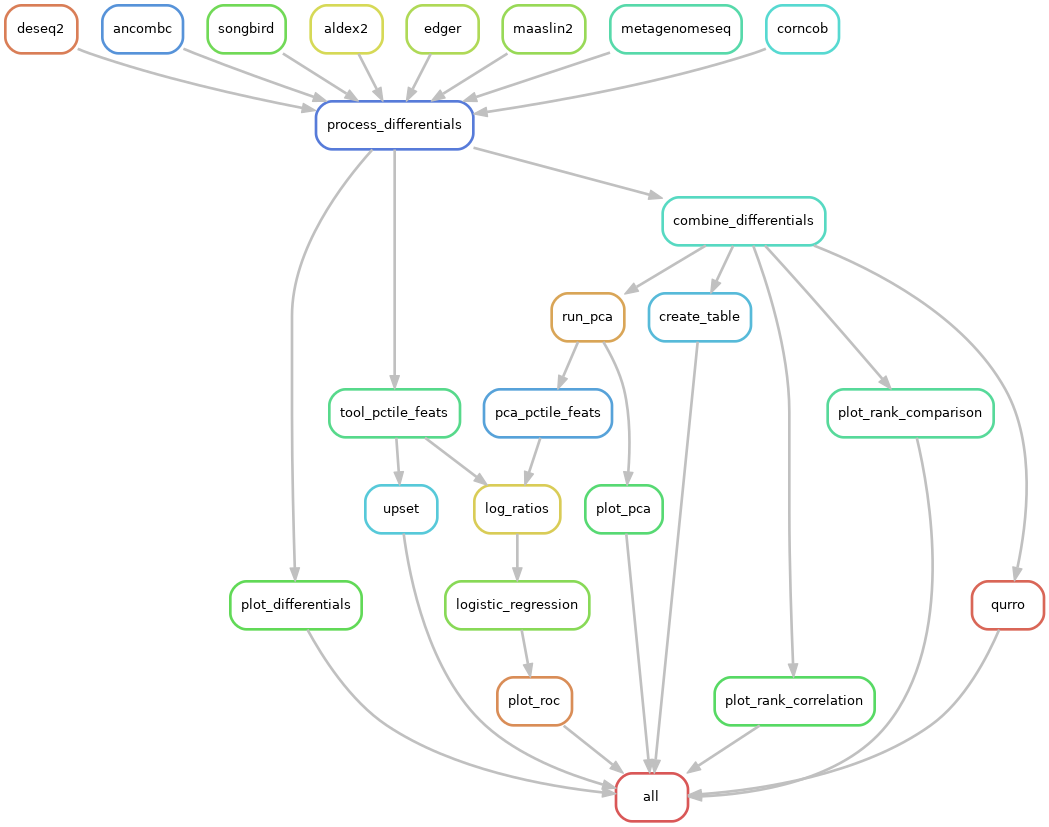
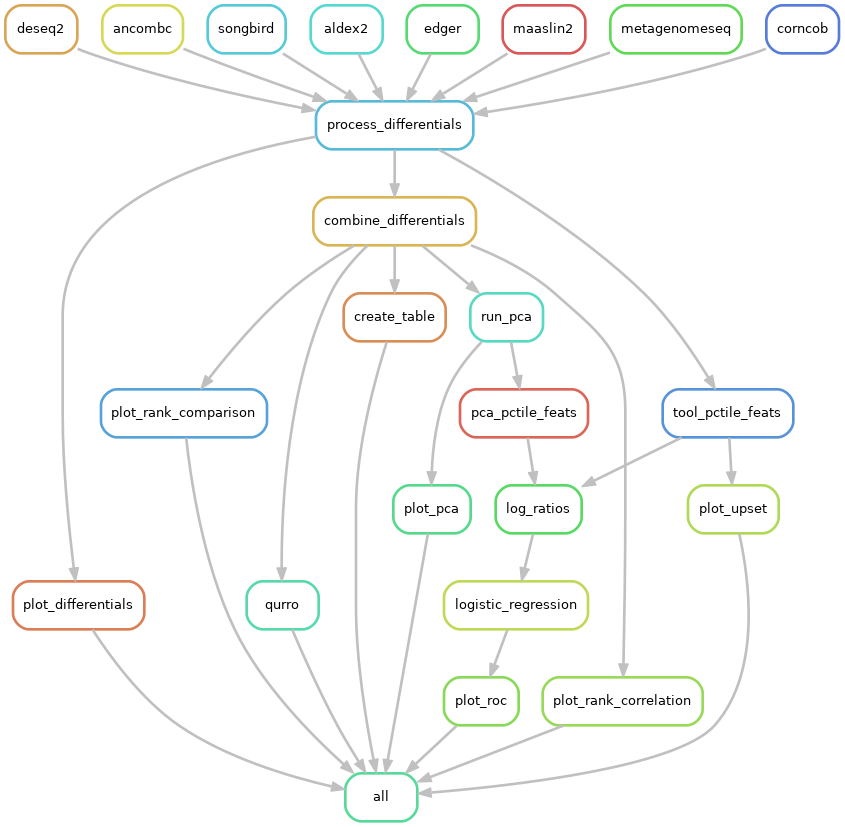
Update rules (#16)
* update plot pca and roc

* update plot scripts

* fix typo + add logs

* update common

* new report files

* Update report

* update rule graph

* update readme

diff --git a/workflow/scripts/plot_pca.py b/workflow/scripts/plot_pca.py
@@ -1,11 +1,10 @@
 import logging
 
+import matplotlib.pyplot as plt
+from matplotlib.patches import Patch
 import numpy as np
 import pandas as pd
 import seaborn as sns
-
-from bokeh.plotting import figure, output_file, save
-from bokeh.models import ColumnDataSource, Arrow, VeeHead, HoverTool
 
 
 logger = logging.getLogger("qadabra")
@@ -17,8 +16,12 @@ formatter = logging.Formatter(
 fh.setFormatter(formatter)
 logger.addHandler(fh)
 
-output_file(filename=snakemake.output[0], title="PCA")
+logging.captureWarnings(True)
+logging.getLogger("py.warnings").addHandler(fh)
 
+plt.style.use(snakemake.config["stylesheet"])
+
+logger.info("Loading PCA results...")
 feat_df = pd.read_table(snakemake.input["features"], sep="\t", index_col=0)
 tool_df = pd.read_table(snakemake.input["tools"], sep="\t", index_col=0)
 prop_exp = pd.read_table(snakemake.input["prop_exp"], sep="\t", index_col=0)
@@ -27,82 +30,80 @@ prop_exp = prop_exp.squeeze()
 pc_cols = tool_df.columns.tolist()
 tool_list = tool_df.index.tolist()
 
-feat_df = feat_df.reset_index()
-tool_df = tool_df.reset_index()
-
-min_max_vals = pd.concat(
-    [tool_df[pc_cols], feat_df[pc_cols]]
-).agg(["min", "max"])
-
-x_min, x_max = min_max_vals["PC1"]
-y_min, y_max = min_max_vals["PC2"]
-x_range = x_max - x_min
-y_range = y_max - y_min
-
-offset = 0.05
-x_min = x_min - offset*x_range
-x_max = x_max + offset*x_range
-
-y_min = y_min - offset*y_range
-y_max = y_max + offset*y_range
-
 arrow_palette = dict(zip(
     tool_list,
-    sns.color_palette("Dark2", len(tool_list)).as_hex()
+    sns.color_palette("colorblind", len(tool_list)).as_hex()
 ))
 
-source = ColumnDataSource(feat_df)
+fig, ax = plt.subplots(1, 1)
 
-hover_points = HoverTool(mode="mouse", names=["points"], attachment="below")
-hover_points.tooltips = [(f"{x}", f"@{x}") for x in feat_df.columns]
-
-tools = [
-    "box_zoom",
-    "reset",
-    "pan",
-    "save"
-]
-
-plot = figure(tools=tools + [hover_points],
-              x_range=(x_min, x_max), y_range=(y_min, y_max))
-plot.circle(
-    source=source,
+logger.info("Plotting scatterplot...")
+sns.scatterplot(
+    data=feat_df,
     x="PC1",
     y="PC2",
-    color="lightgreen",
-    line_width=0.5,
-    line_color="black",
-    size=10,
-    name="points"
+    color="lightgray",
+    edgecolor="black",
+    linewidth=0.1,
+    ax=ax
 )
 
+xlim = ax.get_xlim()
+ylim = ax.get_ylim()
+
+xrange = xlim[1] - xlim[0]
+yrange = ylim[1] - ylim[0]
+
+logger.info("Plotting arrows...")
 for i, row in tool_df.iterrows():
-    tool_name = row["tool"]
+    tool_name = row.name
     color = arrow_palette[tool_name]
-    plot.line(x=[0, row["PC1"]], y=[0, row["PC2"]], line_width=3, line_color=color,
-              legend_label=tool_name)
-    # plot arrow on top since we can't add arrows to legend
-    arr = Arrow(
-        end=VeeHead(line_width=3, line_color=color, fill_color=color),
-        x_start=0, y_start=0, x_end=row["PC1"], y_end=row["PC2"],
-        line_color=color, line_width=4,
-        name="arrows"
+    ax.arrow(
+        x=0, y=0,
+        dx=row["PC1"], dy=row["PC2"],
+        facecolor=color,
+        linewidth=0.5,
+        head_width=xrange*0.005*5,
+        width=xrange*0.005,
+        edgecolor="black",
     )
-    plot.add_layout(arr)
+
+
+patches = []
+for i, row in tool_df.iterrows():
+    tool_name = row.name
+    color = arrow_palette[tool_name]
+    ax.arrow(
+        x=0, y=0,
+        dx=row["PC1"], dy=row["PC2"],
+        facecolor=color,
+        linewidth=0.5,
+        head_width=xrange*0.005*5,
+        width=xrange*0.005,
+        edgecolor="black",
+    )
+    tool_patch = Patch(
+        facecolor=color,
+        edgecolor="black",
+        label=tool_name,
+        linewidth=0.5,
+    )
+    patches.append(tool_patch)
+
+ax.legend(
+    handles=patches,
+    bbox_to_anchor=[1, 1],
+    loc="upper left",
+    frameon=False
+)
 
 prop_exp_labels = [
     f"{i} ({x*100:.2f}%)"
     for i, x in prop_exp.iteritems()
 ]
-plot.xaxis.axis_label = prop_exp_labels[0]
-plot.yaxis.axis_label = prop_exp_labels[1]
-plot.xaxis.major_label_text_font_size = "10pt"
-plot.yaxis.major_label_text_font_size = "10pt"
+ax.set_xlabel(prop_exp_labels[0])
+ax.set_ylabel(prop_exp_labels[1])
 
-for ax in [plot.xaxis, plot.yaxis]:
-    ax.axis_label_text_font_size = "14pt"
-    ax.axis_label_text_font_style = "normal"
-    ax.major_label_text_font_size = "10pt"
-
-save(plot)
-logger.info(f"Saved PCA to {snakemake.output[0]}")
+ax.set_title("PCA")
+plt.savefig(snakemake.output[0])
+logger.info(f"Saved to {snakemake.output[0]}")

diff --git a/workflow/scripts/plot_rank_correlations.py b/workflow/scripts/plot_rank_correlations.py
@@ -1,6 +1,7 @@
 import logging
 
 import matplotlib.pyplot as plt
+import numpy as np
 import pandas as pd
 import seaborn as sns
 
@@ -14,15 +15,24 @@ formatter = logging.Formatter(
 fh.setFormatter(formatter)
 logger.addHandler(fh)
 
-plt.style.use(snakemake.params[0])
+logging.captureWarnings(True)
+logging.getLogger("py.warnings").addHandler(fh)
+
+plt.style.use(snakemake.config["stylesheet"])
 
 logger.info("Loading differentials...")
 diffs_df = pd.read_table(snakemake.input[0], sep="\t", index_col=0)
 
+corr = diffs_df.corr("spearman")
+mask = np.zeros_like(corr)
+mask[np.triu_indices_from(mask)] = True
+
 fig, ax = plt.subplots(1, 1)
 sns.heatmap(
-    diffs_df.corr("spearman"),
+    corr,
     annot=True,
+    mask=mask,
+    square=True,
     ax=ax
 )
 ax.set_title("Spearman Rank Correlations")

diff --git a/workflow/scripts/plot_rank_comparison.py b/workflow/scripts/plot_rank_comparison.py
@@ -19,6 +19,9 @@ formatter = logging.Formatter(
 fh.setFormatter(formatter)
 logger.addHandler(fh)
 
+logging.captureWarnings(True)
+logging.getLogger("py.warnings").addHandler(fh)
+
 output_file(filename=snakemake.output[0], title="Rank Comparison")
 
 diff_df = pd.read_table(snakemake.input[0], sep="\t", index_col=0)
@@ -103,4 +106,4 @@ for ax in [plot.xaxis, plot.yaxis]:
 
 layout = row(column(chosen_tool_1, chosen_tool_2), plot)
 save(layout)
-logger.info(f"Saved rankd comparisons to {snakemake.output[0]}")
+logger.info(f"Saved rank comparisons to {snakemake.output[0]}")

diff --git a/workflow/scripts/plot_roc.py b/workflow/scripts/plot_roc.py
@@ -17,7 +17,11 @@ formatter = logging.Formatter(
 fh.setFormatter(formatter)
 logger.addHandler(fh)
 
-plt.style.use(snakemake.params[0])
+logging.captureWarnings(True)
+logging.getLogger("py.warnings").addHandler(fh)
+
+plt.style.use(snakemake.config["stylesheet"])
+
 tools = snakemake.config["tools"] + ["pca_pc1"]
 palette = dict(zip(
     tools, sns.color_palette("colorblind", len(tools))

diff --git a/workflow/scripts/plot_differentials.py b/workflow/scripts/plot_differentials.py
@@ -15,7 +15,10 @@ formatter = logging.Formatter(
 fh.setFormatter(formatter)
 logger.addHandler(fh)
 
-plt.style.use(snakemake.params[0])
+logging.captureWarnings(True)
+logging.getLogger("py.warnings").addHandler(fh)
+
+plt.style.use(snakemake.config["stylesheet"])
 
 logger.info("Loading differentials...")
 diffs = pd.read_table(snakemake.input[0], sep="\t", index_col=0).squeeze()

diff --git a/workflow/scripts/plot_upset.py b/workflow/scripts/plot_upset.py
@@ -14,7 +14,10 @@ formatter = logging.Formatter(
 fh.setFormatter(formatter)
 logger.addHandler(fh)
 
-plt.style.use(snakemake.params[0])
+logging.captureWarnings(True)
+logging.getLogger("py.warnings").addHandler(fh)
+
+plt.style.use(snakemake.config["stylesheet"])
 
 tool_names = snakemake.config["tools"]
 pctile = snakemake.wildcards["pctile"]

diff --git a/README.md b/README.md
@@ -57,7 +57,7 @@ Qadabra generates many results files including many intermediate files that can 
 Each tool's output is stored in a separate subdirectory.
 For the R tools, an RDS object with the tool's R data is saved.
 The raw outputs are processed and concatenated into a file called `concatenated_differentials.tsv`.
-A Qurro visualization of all the tool ranks is generated at `qurro/index.html`.
+A Qurro visualization of all the tool ranks is generated at `results/qurro/index.html`.
 An interactive table with all the tool outputs is at `results/differentials_table.html`.
 
 For each tool, the ranked features are used for machine learning models.
@@ -71,8 +71,7 @@ The `ml` subdirectory of each tool contains the features used, sample log-ratios
 The differential rank plots of each tool are plotted as `<tool_name>_differentials.svg`.
 A heatmap of the pairwise Spearman correlation among all pairs of tools is available as well.
 We also generated interactive plots to help compare the ranks of different microbes from the tools.
-`figures/pca.html` generates a PCA plot of all the microbes, showing the concordance and discordance of results as well as the contribution of the tools.
+`figures/pca.svg` generates a PCA plot of all the microbes, showing the concordance and discordance of results as well as the contribution of the tools.
 You can use the `figures/rank_comparisons.html` webpage to dynamically explore the relationship between pairs of tools.
 The `upset` subdirectory contains [UpSet](https://doi.org/10.1109%2FTVCG.2014.2346248) plots comparing the features from each tool.
-
 Finally, the `roc` subdirectory contains ROC plots of all tools at each percentile of features.

diff --git a/workflow/report/qurro.rst b/workflow/report/qurro.rst
@@ -1,0 +1,1 @@
+Qurro visualization of differentials from all tools. For more information on Qurro, see `Fedarko 2020 <https://academic.oup.com/nargab/article/2/2/lqaa023/5826153>`_.

diff --git a/workflow/report/plot_rank_comparison.rst b/workflow/report/plot_rank_comparison.rst
@@ -1,0 +1,1 @@
+Interactive plot of rank comparisons. Select the two tools to compare and the plot will update.

diff --git a/workflow/report/plot_pca.rst b/workflow/report/plot_pca.rst
@@ -1,0 +1,1 @@
+Plot of differentials from all tools. Differentials are mean-centered and scaled before PCA.

diff --git a/workflow/report/create_table.rst b/workflow/report/create_table.rst
@@ -1,0 +1,1 @@
+Table of differentials from all tools.
